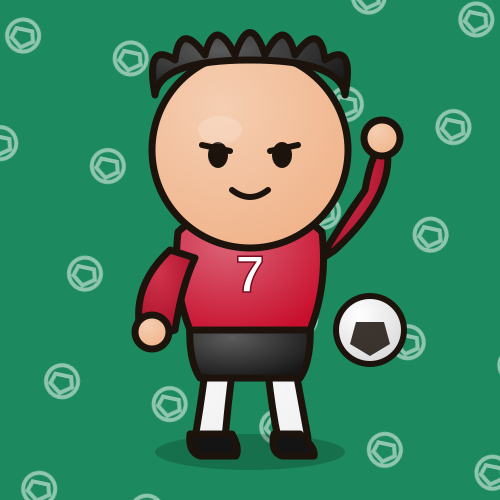
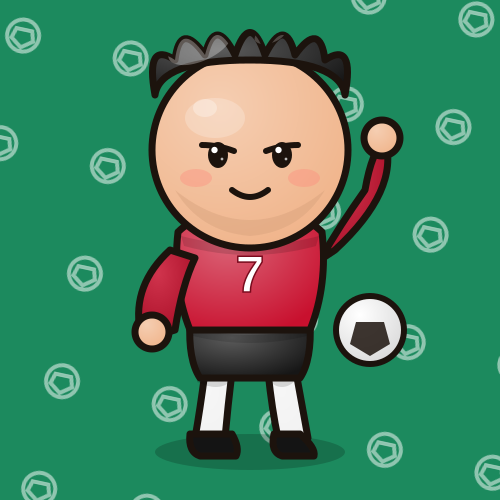
Make the chibi character read as alive, not a flat sticker
Eye catchlights (glossy pupil highlights), expressive angled eyebrows,
cheek blush, a soft jaw-shading arc on the head, contact shadows at
every part junction (neck/collar, torso/shorts, shorts/legs), and a
clipped gloss streak on hair. Same silhouette and traits as before,
just with real light-and-form cues instead of flat stacked shapes.

Claude-Session: https://claude.ai/code/session_01Wjr7xw4tsDooQQs84PxUTw

diff --git a/nft-collection/chibi-spin/character.js b/nft-collection/chibi-spin/character.js
@@ -32,27 +32,67 @@ function darken(hex, amt) {
   return `#${[f(r), f(g), f(b)].map((c) => c.toString(16).padStart(2, '0')).join('')}`;
 }
 
+// A soft diagonal gloss streak, clipped to whatever hair shape is currently
+// drawn, so hair reads as glossy strands rather than a flat cutout.
+function hairShine(clipId) {
+  return `<g clip-path="url(#${clipId})">
+    <ellipse cx="200" cy="45" rx="34" ry="16" fill="#ffffff" opacity="0.3" transform="rotate(-24 200 45)"/>
+    <ellipse cx="270" cy="35" rx="16" ry="8" fill="#ffffff" opacity="0.22" transform="rotate(-18 270 35)"/>
+  </g>`;
+}
+
 function hairPath(style) {
   switch (style) {
-    case 'spiky':
-      return `<path d="M 155 95 Q 145 40 175 60 Q 180 20 205 55 Q 215 15 235 55
+    case 'spiky': {
+      const d = `M 155 95 Q 145 40 175 60 Q 180 20 205 55 Q 215 15 235 55
         Q 250 10 265 55 Q 285 15 295 55 Q 320 20 325 60 Q 355 40 345 95
-        Q 340 60 250 60 Q 160 60 155 95 Z" fill="url(#hairGrad)" stroke="${OUTLINE}" stroke-width="${OUTLINE_W}" stroke-linejoin="round"/>`;
+        Q 340 60 250 60 Q 160 60 155 95 Z`;
+      return `<clipPath id="hairClip"><path d="${d}"/></clipPath>
+        <path d="${d}" fill="url(#hairGrad)" stroke="${OUTLINE}" stroke-width="${OUTLINE_W}" stroke-linejoin="round"/>
+        ${hairShine('hairClip')}`;
+    }
     case 'afro':
-      return `<circle cx="250" cy="90" r="98" fill="url(#hairGrad)" stroke="${OUTLINE}" stroke-width="${OUTLINE_W}"/>`;
-    case 'buzz':
-      return `<path d="M 158 100 Q 155 30 250 28 Q 345 30 342 100 Q 340 60 250 58 Q 160 60 158 100 Z" fill="url(#hairGrad)" stroke="${OUTLINE}" stroke-width="${OUTLINE_W}" stroke-linejoin="round"/>`;
+      return `<clipPath id="hairClip"><circle cx="250" cy="90" r="98"/></clipPath>
+        <circle cx="250" cy="90" r="98" fill="url(#hairGrad)" stroke="${OUTLINE}" stroke-width="${OUTLINE_W}"/>
+        ${hairShine('hairClip')}`;
+    case 'buzz': {
+      const d = `M 158 100 Q 155 30 250 28 Q 345 30 342 100 Q 340 60 250 58 Q 160 60 158 100 Z`;
+      return `<clipPath id="hairClip"><path d="${d}"/></clipPath>
+        <path d="${d}" fill="url(#hairGrad)" stroke="${OUTLINE}" stroke-width="${OUTLINE_W}" stroke-linejoin="round"/>
+        ${hairShine('hairClip')}`;
+    }
     case 'mohawk':
-      return `<path d="M 225 100 Q 205 -10 250 -25 Q 295 -10 275 100 Z" fill="url(#hairGrad)" stroke="${OUTLINE}" stroke-width="${OUTLINE_W}" stroke-linejoin="round"/>
+      return `<clipPath id="hairClip"><path d="M 225 100 Q 205 -10 250 -25 Q 295 -10 275 100 Z"/></clipPath>
+        <path d="M 225 100 Q 205 -10 250 -25 Q 295 -10 275 100 Z" fill="url(#hairGrad)" stroke="${OUTLINE}" stroke-width="${OUTLINE_W}" stroke-linejoin="round"/>
         <path d="M 158 105 Q 156 75 175 75 Q 165 95 175 105 Z" fill="url(#hairGrad)" stroke="${OUTLINE}" stroke-width="${OUTLINE_W}" stroke-linejoin="round"/>
-        <path d="M 342 105 Q 344 75 325 75 Q 335 95 325 105 Z" fill="url(#hairGrad)" stroke="${OUTLINE}" stroke-width="${OUTLINE_W}" stroke-linejoin="round"/>`;
-    case 'ponytail':
-      return `<path d="M 160 95 Q 152 35 250 32 Q 348 35 340 95 Q 335 58 250 56 Q 165 58 160 95 Z" fill="url(#hairGrad)" stroke="${OUTLINE}" stroke-width="${OUTLINE_W}" stroke-linejoin="round"/>
-        <path d="M 335 70 Q 380 80 375 140 Q 370 110 330 95 Z" fill="url(#hairGrad)" stroke="${OUTLINE}" stroke-width="${OUTLINE_W}" stroke-linejoin="round"/>`;
+        <path d="M 342 105 Q 344 75 325 75 Q 335 95 325 105 Z" fill="url(#hairGrad)" stroke="${OUTLINE}" stroke-width="${OUTLINE_W}" stroke-linejoin="round"/>
+        ${hairShine('hairClip')}`;
+    case 'ponytail': {
+      const d = `M 160 95 Q 152 35 250 32 Q 348 35 340 95 Q 335 58 250 56 Q 165 58 160 95 Z`;
+      return `<clipPath id="hairClip"><path d="${d}"/></clipPath>
+        <path d="${d}" fill="url(#hairGrad)" stroke="${OUTLINE}" stroke-width="${OUTLINE_W}" stroke-linejoin="round"/>
+        <path d="M 335 70 Q 380 80 375 140 Q 370 110 330 95 Z" fill="url(#hairGrad)" stroke="${OUTLINE}" stroke-width="${OUTLINE_W}" stroke-linejoin="round"/>
+        ${hairShine('hairClip')}`;
+    }
     case 'bald':
     default:
       return '';
   }
+}
+
+// A glossy pupil with a catchlight — the single biggest lever for making a
+// flat vector face read as "alive" rather than a sticker.
+function pupil(cx, cy) {
+  return `<ellipse cx="${cx}" cy="${cy}" rx="10" ry="13" fill="${OUTLINE}"/>
+    <circle cx="${cx - 3.5}" cy="${cy - 5}" r="3.2" fill="#ffffff"/>
+    <circle cx="${cx + 4}" cy="${cy + 4}" r="1.4" fill="#ffffff" opacity="0.7"/>`;
+}
+
+function eyebrow(cx, ey, dir) {
+  // dir: 1 = angled for a determined/focused look, 0 = neutral-relaxed.
+  const tilt = dir ? 6 : 2;
+  const sign = cx < 250 ? -1 : 1;
+  return `<path d="M ${cx - sign * 16} ${ey - 10 + tilt} q ${sign * 16} ${-6} ${sign * 32} ${-tilt}" stroke="${OUTLINE}" stroke-width="6" fill="none" stroke-linecap="round"/>`;
 }
 
 function eyesPath(style) {
@@ -60,30 +100,43 @@ function eyesPath(style) {
   const ey = 155;
   switch (style) {
     case 'determined':
-      return `<path d="M ${250 - ex - 16} ${ey - 10} l 28 6" stroke="${OUTLINE}" stroke-width="6" stroke-linecap="round"/>
-        <path d="M ${250 + ex + 16} ${ey - 10} l -28 6" stroke="${OUTLINE}" stroke-width="6" stroke-linecap="round"/>
-        <ellipse cx="${250 - ex}" cy="${ey}" rx="10" ry="13" fill="${OUTLINE}"/>
-        <ellipse cx="${250 + ex}" cy="${ey}" rx="10" ry="13" fill="${OUTLINE}"/>`;
+      return `${eyebrow(250 - ex, ey, 1)}${eyebrow(250 + ex, ey, 1)}
+        ${pupil(250 - ex, ey)}${pupil(250 + ex, ey)}`;
     case 'happy':
-      return `<path d="M ${250 - ex - 12} ${ey} q 12 -14 24 0" stroke="${OUTLINE}" stroke-width="6" fill="none" stroke-linecap="round"/>
+      return `${eyebrow(250 - ex, ey, 0)}${eyebrow(250 + ex, ey, 0)}
+        <path d="M ${250 - ex - 12} ${ey} q 12 -14 24 0" stroke="${OUTLINE}" stroke-width="6" fill="none" stroke-linecap="round"/>
         <path d="M ${250 + ex - 12} ${ey} q 12 -14 24 0" stroke="${OUTLINE}" stroke-width="6" fill="none" stroke-linecap="round"/>`;
     case 'wink':
-      return `<ellipse cx="${250 - ex}" cy="${ey}" rx="10" ry="13" fill="${OUTLINE}"/>
+      return `${eyebrow(250 - ex, ey, 1)}${eyebrow(250 + ex, ey, 0)}
+        ${pupil(250 - ex, ey)}
         <path d="M ${250 + ex - 12} ${ey} q 12 -12 24 0" stroke="${OUTLINE}" stroke-width="6" fill="none" stroke-linecap="round"/>`;
     case 'shades':
       return `<rect x="${250 - ex - 20}" y="${ey - 14}" width="44" height="26" rx="10" fill="#141414" stroke="${OUTLINE}" stroke-width="5"/>
         <rect x="${250 + ex - 24}" y="${ey - 14}" width="44" height="26" rx="10" fill="#141414" stroke="${OUTLINE}" stroke-width="5"/>
         <path d="M ${250 - ex + 24} ${ey - 4} l ${ex * 2 - 48} 0" stroke="${OUTLINE}" stroke-width="5"/>
         <path d="M ${250 + ex + 24} ${ey - 8} l 18 -6" stroke="${OUTLINE}" stroke-width="5" stroke-linecap="round"/>
-        <path d="M ${250 - ex - 24} ${ey - 8} l -18 -6" stroke="${OUTLINE}" stroke-width="5" stroke-linecap="round"/>`;
+        <path d="M ${250 - ex - 24} ${ey - 8} l -18 -6" stroke="${OUTLINE}" stroke-width="5" stroke-linecap="round"/>
+        <ellipse cx="${250 - ex - 10}" cy="${ey - 8}" rx="8" ry="4" fill="#ffffff" opacity="0.35"/>
+        <ellipse cx="${250 + ex - 14}" cy="${ey - 8}" rx="8" ry="4" fill="#ffffff" opacity="0.35"/>`;
     default:
-      return `<ellipse cx="${250 - ex}" cy="${ey}" rx="10" ry="13" fill="${OUTLINE}"/>
-        <ellipse cx="${250 + ex}" cy="${ey}" rx="10" ry="13" fill="${OUTLINE}"/>`;
+      return `${eyebrow(250 - ex, ey, 0)}${eyebrow(250 + ex, ey, 0)}
+        ${pupil(250 - ex, ey)}${pupil(250 + ex, ey)}`;
   }
 }
 
 function mouthPath() {
   return `<path d="M 232 190 q 18 14 36 0" stroke="${OUTLINE}" stroke-width="6" fill="none" stroke-linecap="round"/>`;
+}
+
+function blush() {
+  return `<ellipse cx="196" cy="178" rx="16" ry="9" fill="#ff8577" opacity="0.35"/>
+    <ellipse cx="304" cy="178" rx="16" ry="9" fill="#ff8577" opacity="0.35"/>`;
+}
+
+// Soft contact shadows where parts meet — the trick that stops a stack of
+// flat shapes from reading as a stack of flat shapes.
+function contactShadow(pathD) {
+  return `<path d="${pathD}" fill="#00000022" stroke="none"/>`;
 }
 
 function propPath(prop, jersey) {
@@ -145,25 +198,33 @@ function buildCharacterSvgGroup(traits) {
     <path d="M 268 372 Q 272 410 278 438 L 308 438 Q 302 405 296 372 Z" fill="url(#bootsGrad)" stroke="${OUTLINE}" stroke-width="${OUTLINE_W}" stroke-linejoin="round"/>
     <path d="M 190 434 Q 188 452 200 456 L 236 456 Q 240 448 232 434 Z" fill="#141414" stroke="${OUTLINE}" stroke-width="${OUTLINE_W}" stroke-linejoin="round"/>
     <path d="M 274 434 Q 270 452 282 456 L 314 456 Q 316 448 300 434 Z" fill="#141414" stroke="${OUTLINE}" stroke-width="${OUTLINE_W}" stroke-linejoin="round"/>
+    ${contactShadow('M 197 374 Q 218 384 230 374 L 230 382 Q 218 392 197 382 Z')}
+    ${contactShadow('M 270 374 Q 282 384 294 374 L 294 382 Q 282 392 270 382 Z')}
 
     <!-- shorts -->
     <path d="M 190 322 Q 188 360 200 378 L 300 378 Q 312 360 310 322 Z" fill="url(#shortsGrad)" stroke="${OUTLINE}" stroke-width="${OUTLINE_W}" stroke-linejoin="round"/>
+    ${contactShadow('M 193 328 Q 250 342 307 328 L 307 336 Q 250 350 193 336 Z')}
 
     <!-- torso / jersey -->
     <path d="M 178 232 Q 172 285 190 330 L 310 330 Q 328 285 322 232 Q 300 210 250 208 Q 200 210 178 232 Z"
       fill="url(#jerseyGrad)" stroke="${OUTLINE}" stroke-width="${OUTLINE_W}" stroke-linejoin="round"/>
     <text x="250" y="292" font-family="Arial, sans-serif" font-weight="900" font-size="52" fill="#ffffff" text-anchor="middle" stroke="${darken(jersey, 0.4)}" stroke-width="1.5">${number}</text>
+    ${contactShadow('M 181 236 Q 250 254 319 236 L 316 246 Q 250 264 184 246 Z')}
 
     ${frontArm}
 
     <!-- neck -->
     <rect x="228" y="205" width="44" height="26" fill="url(#skinGrad)"/>
+    ${contactShadow('M 228 222 L 272 222 L 272 231 Q 250 236 228 231 Z')}
 
     <!-- head -->
     <circle cx="250" cy="150" r="98" fill="url(#skinGrad)" stroke="${OUTLINE}" stroke-width="${OUTLINE_W}"/>
+    <path d="M 175 190 Q 250 250 325 190 Q 300 232 250 236 Q 200 232 175 190 Z" fill="${darken(skin, 0.12)}" opacity="0.4"/>
+    ${blush()}
     ${eyesPath(eyes)}
     ${mouthPath()}
-    <ellipse cx="220" cy="130" rx="22" ry="14" fill="#ffffff30"/>
+    <ellipse cx="215" cy="118" rx="30" ry="20" fill="#ffffff" opacity="0.22"/>
+    <ellipse cx="205" cy="108" rx="12" ry="9" fill="#ffffff" opacity="0.3"/>
 
     ${hairPath(hair)}
 
